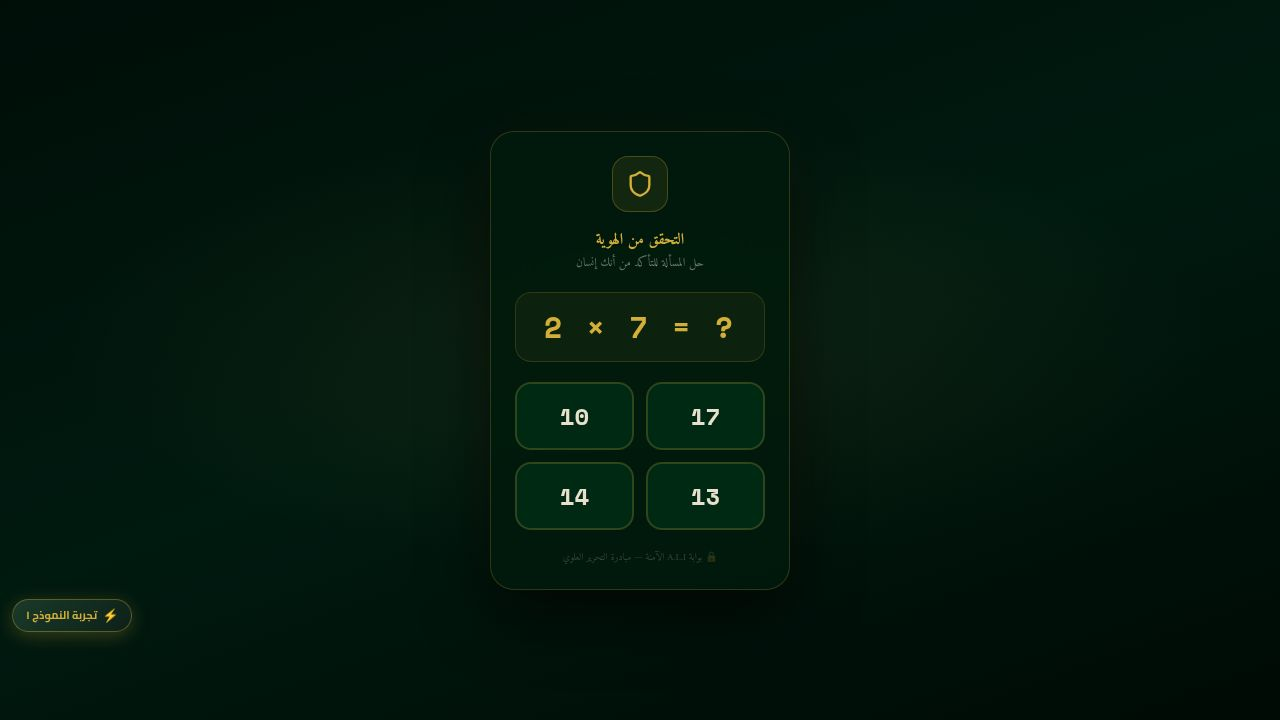
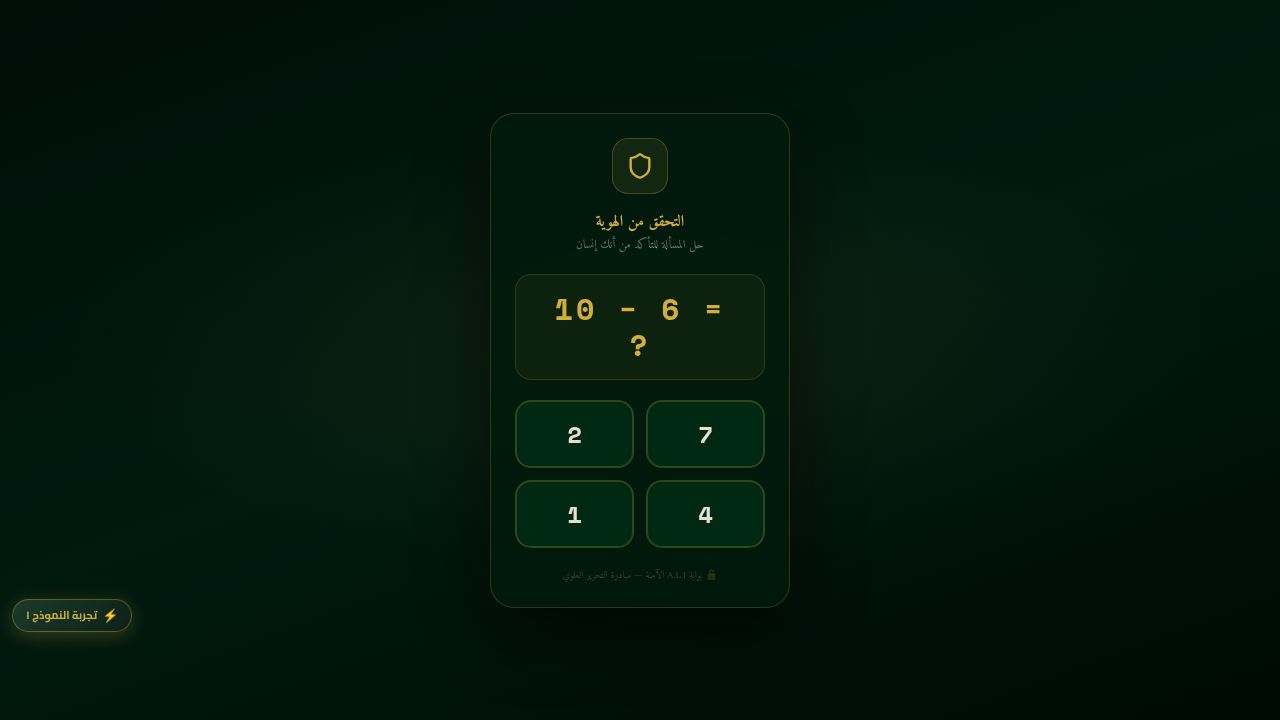
Update app interface with new visual styles and tab arrangements
Modify UI elements across multiple components, including tab reordering and styling in `field-docs-hub.tsx`, updating text and removing components in `watch.tsx`, changing tab labels in `earn.tsx`, and adjusting titles in `play.tsx`.

Replit-Commit-Author: Agent
Replit-Commit-Session-Id: e80673c4-b6c3-41ff-9568-ff0cb59c93ac
Replit-Commit-Checkpoint-Type: full_checkpoint
Replit-Commit-Event-Id: 781e33be-7e02-4137-958d-f988f639da50
Replit-Commit-Screenshot-Url: https://storage.googleapis.com/screenshot-production-us-central1/f4d51eb5-5541-47fb-8c85-4b831ce0d5fd/e80673c4-b6c3-41ff-9568-ff0cb59c93ac/nU43Pzk
Replit-Helium-Checkpoint-Created: true

Changed region(s): [[0.4062, 0.5194, 0.5938, 0.7639], [0.4062, 0.2139, 0.5938, 0.4889], [0.5312, 0.7944, 0.5625, 0.825]]

diff --git a/artifacts/ali-gateway/src/pages/model2/field-docs-hub.tsx b/artifacts/ali-gateway/src/pages/model2/field-docs-hub.tsx
@@ -598,47 +598,63 @@ export function FieldDocsHub({ telegramId }: { telegramId: string }) {
 
       {/* ── Tab switcher ── */}
       <div className="flex-shrink-0 flex items-center gap-2 px-3 py-2.5"
-        style={{ background: "rgba(2,14,4,0.97)", borderBottom: "1px solid rgba(212,175,55,0.14)" }}>
+        style={{ background: "rgba(2,10,2,0.97)", borderBottom: "1px solid rgba(212,175,55,0.18)" }}>
 
-        {/* توثيق الانتهاكات */}
-        <motion.button onClick={() => setTab("violations")} whileTap={{ scale: 0.94 }}
-          className="relative flex-1 flex items-center justify-center gap-2 rounded-2xl px-3 py-2.5 overflow-hidden"
+        {/* رصد عاجل — يمين (أولوية الوصول) */}
+        <motion.button onClick={() => setTab("urgent")} whileTap={{ scale: 0.93 }}
+          className="relative flex-1 flex items-center justify-center gap-2 rounded-2xl px-3 py-3 overflow-hidden"
           style={{
-            background: tab === "violations"
-              ? "linear-gradient(135deg, rgba(212,175,55,0.22) 0%, rgba(120,100,20,0.18) 100%)"
-              : "rgba(255,255,255,0.04)",
-            border: tab === "violations" ? `1.5px solid rgba(212,175,55,0.55)` : "1.5px solid rgba(255,255,255,0.08)",
-            boxShadow: tab === "violations" ? `0 0 16px rgba(212,175,55,0.2), inset 0 1px 0 rgba(255,255,255,0.12)` : "none",
+            background: "linear-gradient(135deg, rgba(212,175,55,0.13) 0%, rgba(180,150,30,0.07) 100%)",
+            border: `1.5px solid rgba(212,175,55,0.35)`,
+            boxShadow: "inset 0 1px 0 rgba(255,255,255,0.10), 0 2px 8px rgba(0,0,0,0.3)",
+            backdropFilter: "blur(8px)",
           }}>
-          <Shield size={15}
-            color={tab === "violations" ? GOLD : "rgba(255,255,255,0.35)"}
-            style={{ filter: tab === "violations" ? `drop-shadow(0 0 5px ${GOLD}90)` : "none", flexShrink: 0 }} />
-          <div className="relative z-10 text-right">
-            <p className="font-arabic font-black text-[11px] leading-tight"
-              style={{ color: tab === "violations" ? GOLD : "rgba(255,255,255,0.55)" }}>توثيق الانتهاكات</p>
-            <p className="font-arabic text-[9px] leading-tight"
-              style={{ color: tab === "violations" ? "rgba(212,175,55,0.65)" : "rgba(255,255,255,0.25)" }}>مختطفات · تهجير · مفقودون · شهداء</p>
+          {/* طبقة حمراء شفافة عند التفعيل */}
+          {tab === "urgent" && (
+            <motion.div initial={{ opacity: 0 }} animate={{ opacity: 1 }} exit={{ opacity: 0 }}
+              className="absolute inset-0 rounded-2xl pointer-events-none"
+              style={{ background: "rgba(239,68,68,0.22)", border: "1.5px solid rgba(239,68,68,0.5)" }} />
+          )}
+          {/* أيقونة زجاجية ذهبية لامعة */}
+          <div className="relative z-10 flex-shrink-0 w-9 h-9 rounded-xl flex items-center justify-center"
+            style={{
+              background: "linear-gradient(145deg, rgba(212,175,55,0.35) 0%, rgba(212,175,55,0.1) 100%)",
+              border: "1px solid rgba(212,175,55,0.6)",
+              boxShadow: "inset 0 1px 0 rgba(255,255,255,0.25), 0 2px 6px rgba(212,175,55,0.3)",
+            }}>
+            <ShieldAlert size={17} color={GOLD} style={{ filter: `drop-shadow(0 0 4px ${GOLD}cc)` }} />
+          </div>
+          <div className="relative z-10 text-right flex-1">
+            <p className="font-arabic font-black text-[12px] leading-tight" style={{ color: "#22c55e", textShadow: "0 0 8px rgba(34,197,94,0.4)" }}>رصد عاجل</p>
+            <p className="font-arabic text-[9px] leading-tight" style={{ color: "rgba(34,197,94,0.55)" }}>خطف · فصائل · قتل · اعتقال</p>
           </div>
         </motion.button>
 
-        {/* رصد عاجل */}
-        <motion.button onClick={() => setTab("urgent")} whileTap={{ scale: 0.94 }}
-          className="relative flex-1 flex items-center justify-center gap-2 rounded-2xl px-3 py-2.5 overflow-hidden"
+        {/* توثيق الانتهاكات — يسار */}
+        <motion.button onClick={() => setTab("violations")} whileTap={{ scale: 0.93 }}
+          className="relative flex-1 flex items-center justify-center gap-2 rounded-2xl px-3 py-3 overflow-hidden"
           style={{
-            background: tab === "urgent"
-              ? "linear-gradient(135deg, rgba(239,68,68,0.2) 0%, rgba(120,20,20,0.25) 100%)"
-              : "rgba(255,255,255,0.04)",
-            border: tab === "urgent" ? `1.5px solid rgba(239,68,68,0.5)` : "1.5px solid rgba(255,255,255,0.08)",
-            boxShadow: tab === "urgent" ? `0 0 16px rgba(239,68,68,0.2), inset 0 1px 0 rgba(255,255,255,0.12)` : "none",
+            background: "linear-gradient(135deg, rgba(212,175,55,0.13) 0%, rgba(180,150,30,0.07) 100%)",
+            border: `1.5px solid rgba(212,175,55,0.35)`,
+            boxShadow: "inset 0 1px 0 rgba(255,255,255,0.10), 0 2px 8px rgba(0,0,0,0.3)",
+            backdropFilter: "blur(8px)",
           }}>
-          <ShieldAlert size={15}
-            color={tab === "urgent" ? RED : "rgba(255,255,255,0.35)"}
-            style={{ filter: tab === "urgent" ? `drop-shadow(0 0 5px ${RED}90)` : "none", flexShrink: 0 }} />
-          <div className="relative z-10 text-right">
-            <p className="font-arabic font-black text-[11px] leading-tight"
-              style={{ color: tab === "urgent" ? "#fca5a5" : "rgba(255,255,255,0.55)" }}>رصد عاجل</p>
-            <p className="font-arabic text-[9px] leading-tight"
-              style={{ color: tab === "urgent" ? "rgba(252,165,165,0.65)" : "rgba(255,255,255,0.25)" }}>خطف · فصائل · قتل · اعتقال</p>
+          {tab === "violations" && (
+            <motion.div initial={{ opacity: 0 }} animate={{ opacity: 1 }} exit={{ opacity: 0 }}
+              className="absolute inset-0 rounded-2xl pointer-events-none"
+              style={{ background: "rgba(239,68,68,0.22)", border: "1.5px solid rgba(239,68,68,0.5)" }} />
+          )}
+          <div className="relative z-10 flex-shrink-0 w-9 h-9 rounded-xl flex items-center justify-center"
+            style={{
+              background: "linear-gradient(145deg, rgba(212,175,55,0.35) 0%, rgba(212,175,55,0.1) 100%)",
+              border: "1px solid rgba(212,175,55,0.6)",
+              boxShadow: "inset 0 1px 0 rgba(255,255,255,0.25), 0 2px 6px rgba(212,175,55,0.3)",
+            }}>
+            <Shield size={17} color={GOLD} style={{ filter: `drop-shadow(0 0 4px ${GOLD}cc)` }} />
+          </div>
+          <div className="relative z-10 text-right flex-1">
+            <p className="font-arabic font-black text-[12px] leading-tight" style={{ color: "#22c55e", textShadow: "0 0 8px rgba(34,197,94,0.4)" }}>توثيق الانتهاكات</p>
+            <p className="font-arabic text-[9px] leading-tight" style={{ color: "rgba(34,197,94,0.55)" }}>مختطفات · تهجير · مفقودون · شهداء</p>
           </div>
         </motion.button>
       </div>

diff --git a/artifacts/ali-gateway/src/pages/sections/watch.tsx b/artifacts/ali-gateway/src/pages/sections/watch.tsx
@@ -2,7 +2,6 @@ import { useCallback } from "react";
 import { apiFetch } from "../../lib/api";
 import { motion, AnimatePresence } from "framer-motion";
 import { ChevronRight, Star, CheckCircle, Play, Clock, XCircle } from "lucide-react";
-import { AliEmblem } from "../../components/ui/ali-emblem";
 import { useTelegram } from "../../lib/telegram";
 import { useRewardedAd } from "../../hooks/use-rewarded-ad";
 import { useState } from "react";
@@ -12,10 +11,9 @@ const COOLDOWN_MS = 25_000;
 
 const NOTICE_LINES = [
   "هذا الإعلان لا يمثّل توجهات المبادرة.",
-  "يرجى مشاهدته حتى النهاية.",
+  "يرجى مشاهدته حتى النهاية (أكمل). سيظهر حرف ✕ عندما ينتهي عداد الثواني — اضغط عليه للخروج من الإعلان.",
   "بإمكانك عدم النقر على الشاشة لكيلا تنتقل إلى روابط إعلانية خارجية.",
   "مجرّد مشاهدتك تزيد من رصيدك وتدعم المبادرة.",
-  "أغلقه فقط عندما ينتهي عداد الثواني.",
   "كل إعلان تشاهده يدعم المبادرة وأهلنا إنسانياً 💚",
 ];
 
@@ -94,26 +92,40 @@ export function WatchSection({ onBack }: { onBack: () => void }) {
       {/* ── Body ── */}
       <div className="flex-1 overflow-y-auto flex flex-col items-center px-5 py-8 gap-8">
 
-        {/* Emblem */}
-        <div className="relative flex items-center justify-center">
-          <div
-            className="absolute rounded-full ali-pulse-ring"
-            style={{ width: 188, height: 188, background: "transparent", border: "2px solid rgba(212,175,55,0.25)" }}
-          />
-          <div
-            className="absolute rounded-full ali-pulse-ring-sm"
-            style={{ width: 164, height: 164, background: "transparent", border: "1.5px solid rgba(212,175,55,0.15)" }}
-          />
-          <div
-            className="relative z-10 rounded-full overflow-hidden"
+        {/* Watch hero banner */}
+        <motion.div
+          initial={{ opacity: 0, scale: 0.92 }} animate={{ opacity: 1, scale: 1 }}
+          className="w-full rounded-3xl flex flex-col items-center justify-center gap-3 py-7 px-4 text-center"
+          style={{
+            background: "linear-gradient(135deg, rgba(0,43,27,0.9) 0%, rgba(6,13,26,0.95) 100%)",
+            border: "2px solid rgba(212,175,55,0.45)",
+            boxShadow: "0 0 40px rgba(212,175,55,0.15), inset 0 1px 0 rgba(255,255,255,0.08)",
+          }}>
+          <motion.div
+            animate={{ scale: [1, 1.06, 1] }} transition={{ repeat: Infinity, duration: 2.8, ease: "easeInOut" }}
+            className="w-16 h-16 rounded-2xl flex items-center justify-center"
             style={{
-              width: 144, height: 144,
-              boxShadow: "0 0 48px rgba(212,175,55,0.35), 0 8px 0 rgba(212,175,55,0.3)",
-              border: "3px solid #d4af37",
+              background: "linear-gradient(145deg, rgba(212,175,55,0.35), rgba(212,175,55,0.08))",
+              border: "1.5px solid rgba(212,175,55,0.6)",
+              boxShadow: "inset 0 1px 0 rgba(255,255,255,0.2), 0 0 20px rgba(212,175,55,0.3)",
             }}>
-            <AliEmblem className="w-full h-full" animate={false} />
+            <Play className="w-8 h-8" color="#d4af37" fill="#d4af37" style={{ filter: "drop-shadow(0 0 6px rgba(212,175,55,0.8))" }} />
+          </motion.div>
+          <div>
+            <p className="font-arabic font-black text-xl leading-tight" style={{ color: "#d4af37", textShadow: "0 0 12px rgba(212,175,55,0.5)" }}>
+              شاهد الآن وادعم المبادرة
+            </p>
+            <p className="font-arabic text-xs mt-1" style={{ color: "rgba(34,197,94,0.8)" }}>
+              مشاهدتك تترجم دعماً حقيقياً لأهلنا
+            </p>
           </div>
-        </div>
+          <motion.div
+            className="h-px w-3/4"
+            style={{ background: "linear-gradient(90deg, transparent, rgba(212,175,55,0.6), transparent)" }}
+            animate={{ opacity: [0.3, 1, 0.3] }}
+            transition={{ repeat: Infinity, duration: 2, ease: "easeInOut" }}
+          />
+        </motion.div>
 
         {/* Watch count badge */}
         {watchCount > 0 && (

diff --git a/artifacts/ali-gateway/src/pages/sections/play.tsx b/artifacts/ali-gateway/src/pages/sections/play.tsx
@@ -467,7 +467,7 @@ export function PlaySection({ onBack }: { onBack: () => void }) {
           <ChevronRight className="w-5 h-5" />
         </button>
         <div className="flex-1">
-          <h1 className="font-arabic font-bold text-primary text-lg leading-tight">ادعم واربح طريق النحل 🐝</h1>
+          <h1 className="font-arabic font-bold text-primary text-lg leading-tight">طريق النحل 🐝</h1>
           <p className="font-arabic text-muted-foreground text-xs">
             {gameState === "loading"  ? "جاري التحميل..." :
              gameState === "all-done" ? "أكملت جميع المراحل 🏆" :
@@ -511,7 +511,7 @@ export function PlaySection({ onBack }: { onBack: () => void }) {
 
               <div>
                 <p className="font-arabic text-[#d4af37]/70 text-sm mb-1">المرحلة {playingLevel} من {MAX_LEVEL}</p>
-                <h2 className="font-arabic font-bold text-foreground text-2xl mb-2">ادعم واربح طريق النحل 🐝</h2>
+                <h2 className="font-arabic font-bold text-foreground text-2xl mb-2">طريق النحل 🐝</h2>
                 <p className="font-arabic text-muted-foreground text-sm leading-6 max-w-xs">
                   أجب على {questions.length} أسئلة عن المبادرة<br />
                   واكسب نقاط ولاء تُضاف لرصيدك فوراً

diff --git a/artifacts/ali-gateway/src/pages/model2/earn.tsx b/artifacts/ali-gateway/src/pages/model2/earn.tsx
@@ -56,7 +56,7 @@ export function EarnSection({ telegramId: _telegramId }: { telegramId: string })
             style={{ filter: tab === "watch" ? "drop-shadow(0 0 5px rgba(167,139,250,0.7))" : "none", flexShrink: 0 }} />
           <div className="relative z-10 text-right">
             <p className="font-arabic font-black text-[11px] leading-tight"
-              style={{ color: tab === "watch" ? "#c4b5fd" : "rgba(255,255,255,0.55)" }}>شاهد وادعم</p>
+              style={{ color: tab === "watch" ? "#c4b5fd" : "rgba(255,255,255,0.55)" }}>شاهد الآن وادعم المبادرة</p>
             <p className="font-arabic text-[9px] leading-tight"
               style={{ color: tab === "watch" ? "rgba(196,181,253,0.7)" : "rgba(255,255,255,0.25)" }}>الإعلانات الطوعية</p>
           </div>